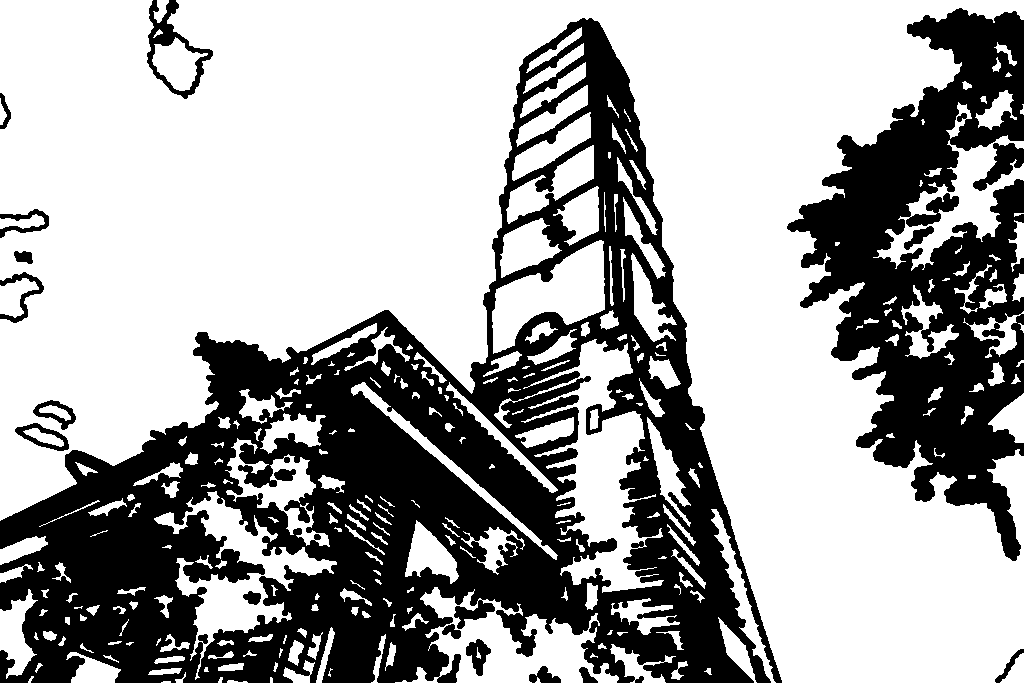
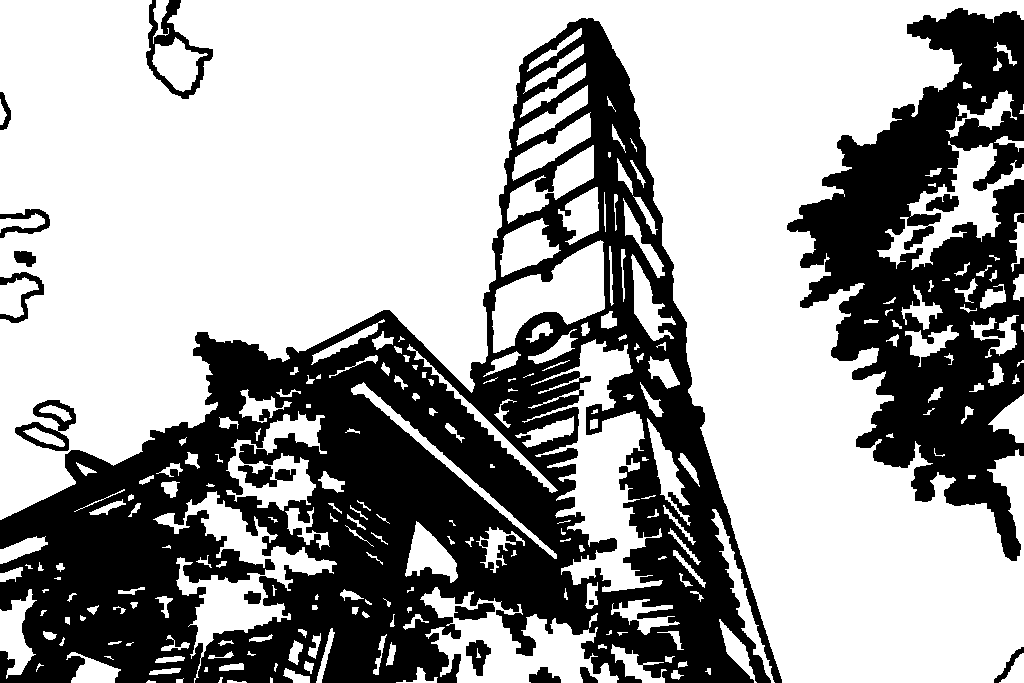
Slight refactors

diff --git a/ktmeans/main.kt b/ktmeans/main.kt
@@ -89,13 +89,13 @@ fun main(args: Array<String>) {
 
     gaps(whiteReduction, PointType.WHITE)
     gaps(blackReduction, PointType.BLACK)
-    // gaps(15, PointType.WHITE)
     colours.forEach {
         val x = it.id % w
         val y = it.id / w
         clustered.setRGB(x, y, convert(it))
     }
     ImageIO.write(clustered, "png", File(denoise))
+    // GAPS REMOVED
 }
 
 fun gaps(t: Int, rm: PointType) {
@@ -146,14 +146,6 @@ fun gaps(t: Int, rm: PointType) {
             }
         }
     }
-    // regions.forEach { reg ->
-    //     val r = Random.nextInt(0, 256)
-    //     val g = Random.nextInt(0, 256)
-    //     val b = Random.nextInt(0, 256)
-    //     reg.pixels.forEach {
-    //         colours[it] = Point(it, r, g, b, PointType.COLOUR)
-    //     }
-    // }
 }
 
 fun blur(r: Int, weighted: Boolean) {
@@ -210,7 +202,7 @@ fun edge() {
                 })
             }
         }
-        if (surrounding.filterNotNull().filter { s -> !((s.r == it.r) and (s.g == it.g) and (s.b == it.b)) }.size < 2) {
+        if (surrounding.filterNotNull().filter { s -> !((s.r == it.r) && (s.g == it.g) && (s.b == it.b)) }.size < 1) {
             Point(it.id, 255, 255, 255, PointType.WHITE)
         } else {
             Point(it.id, 0, 0, 0, PointType.BLACK)
